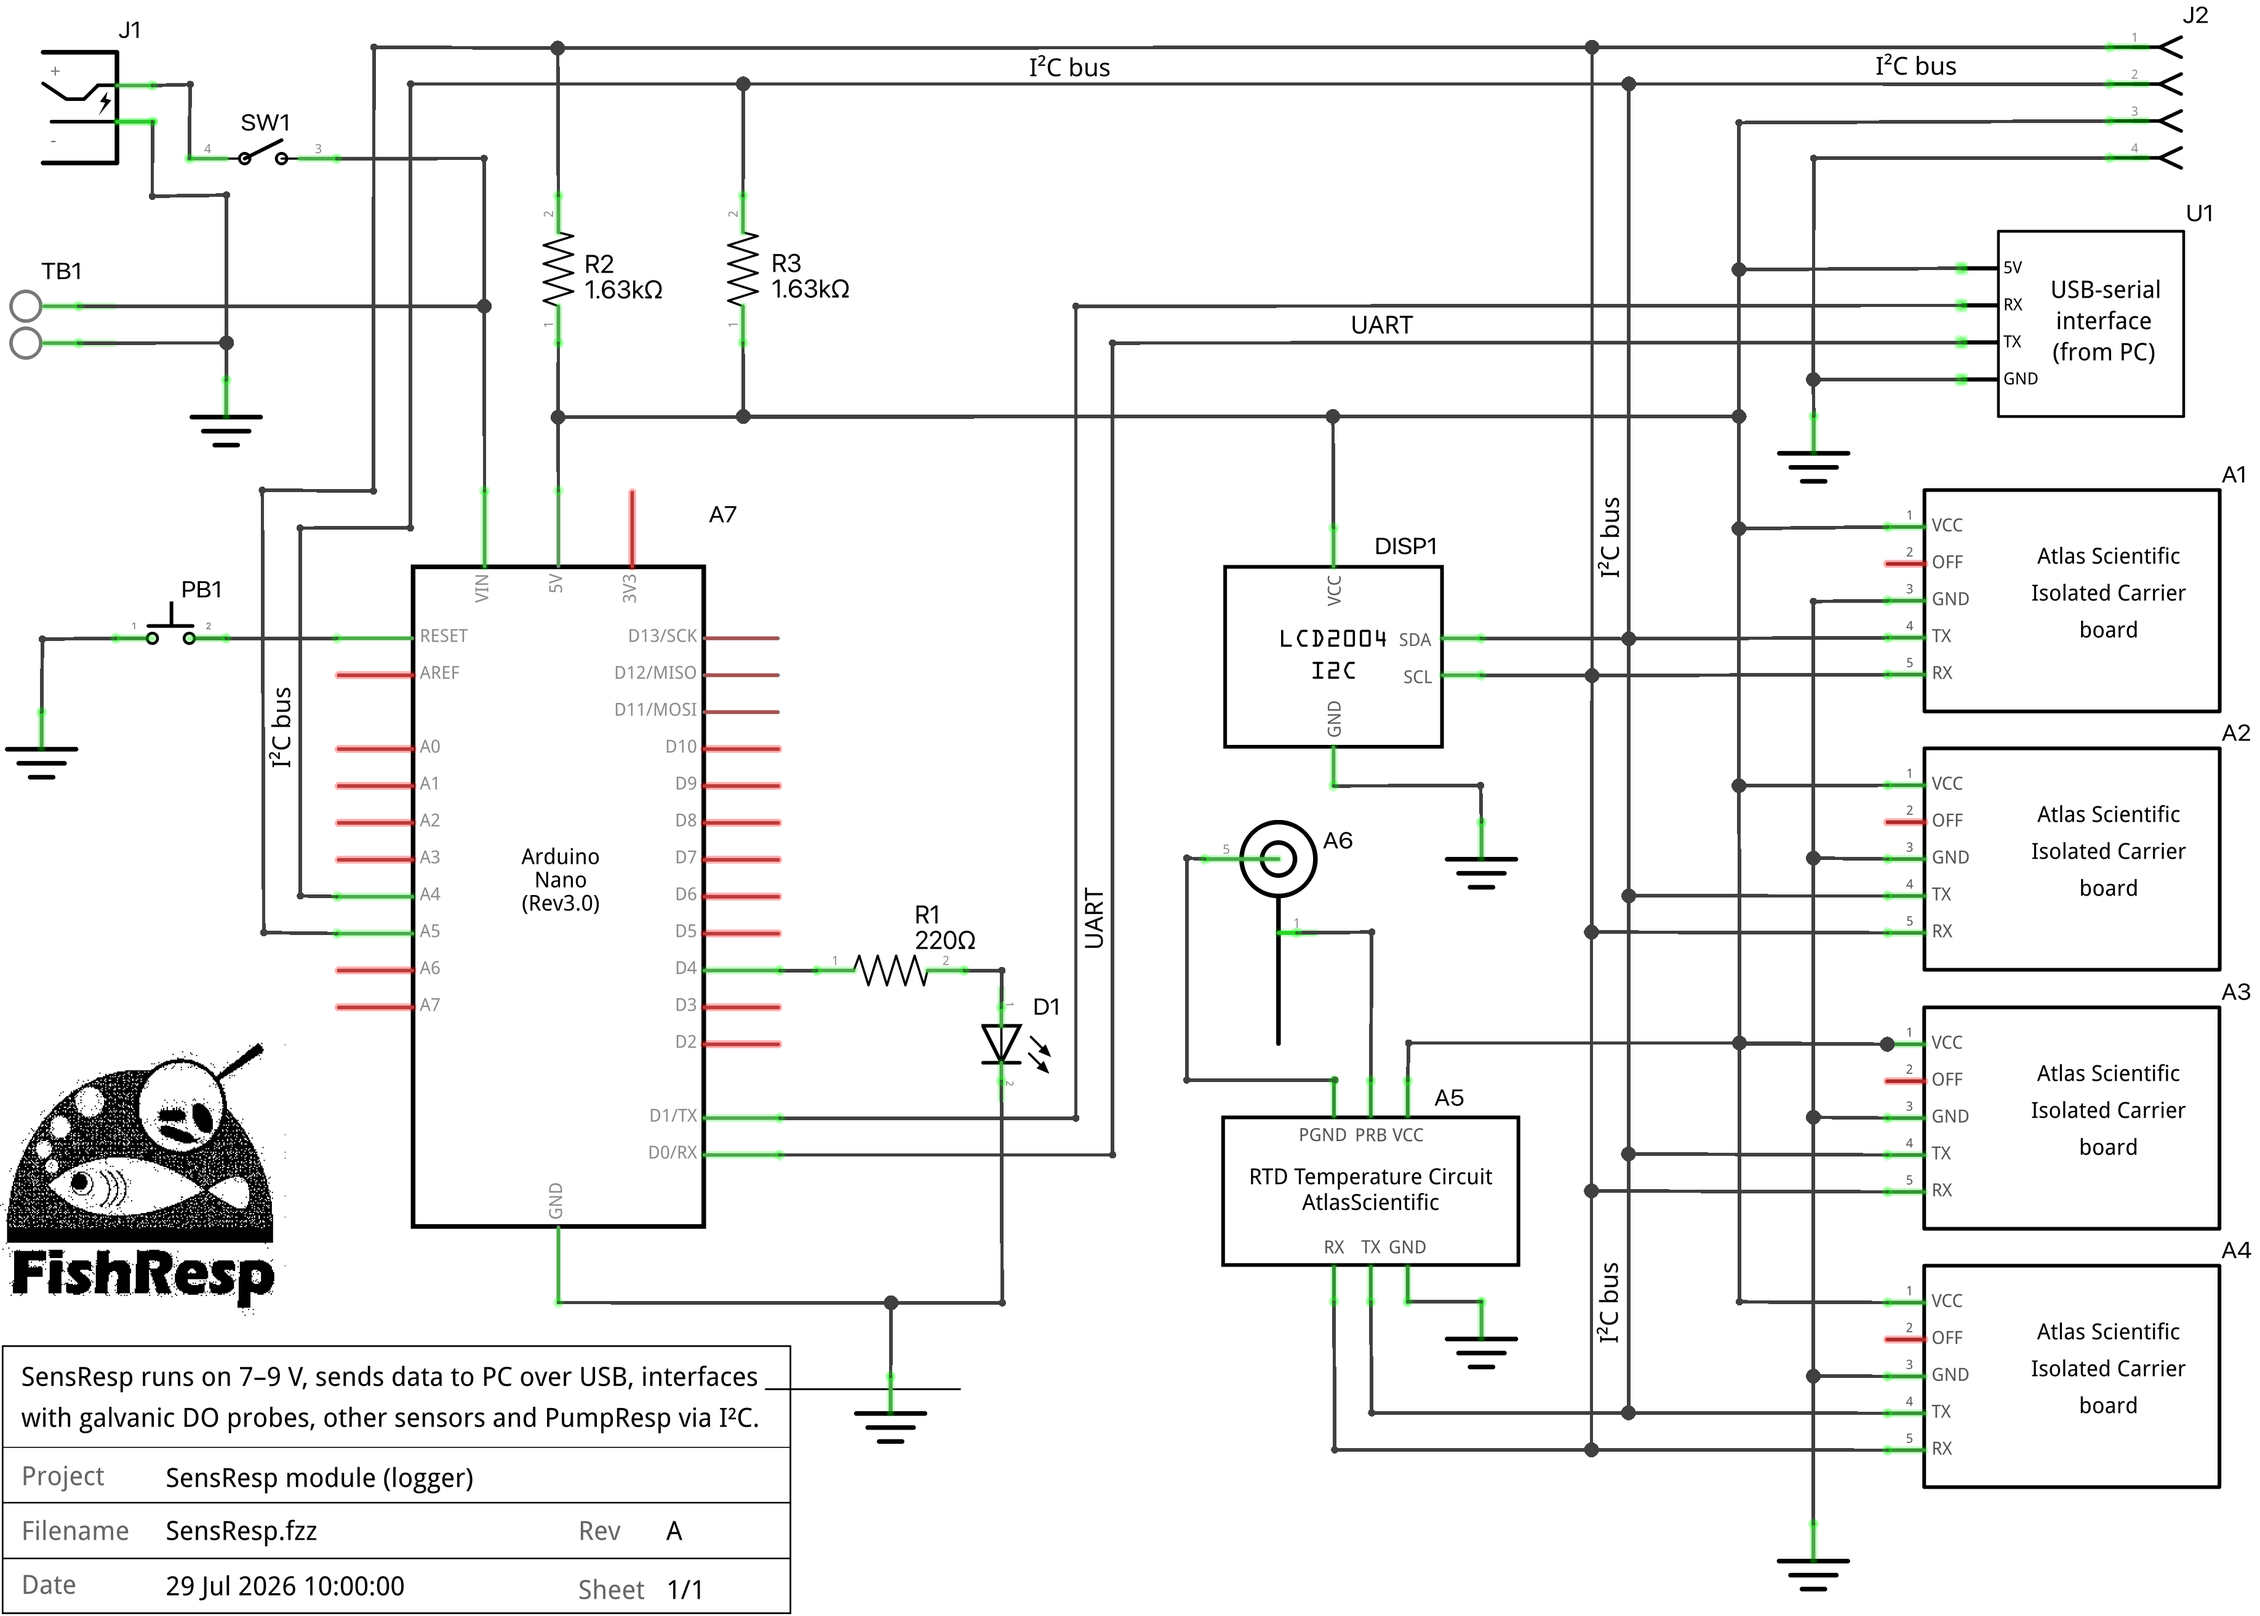
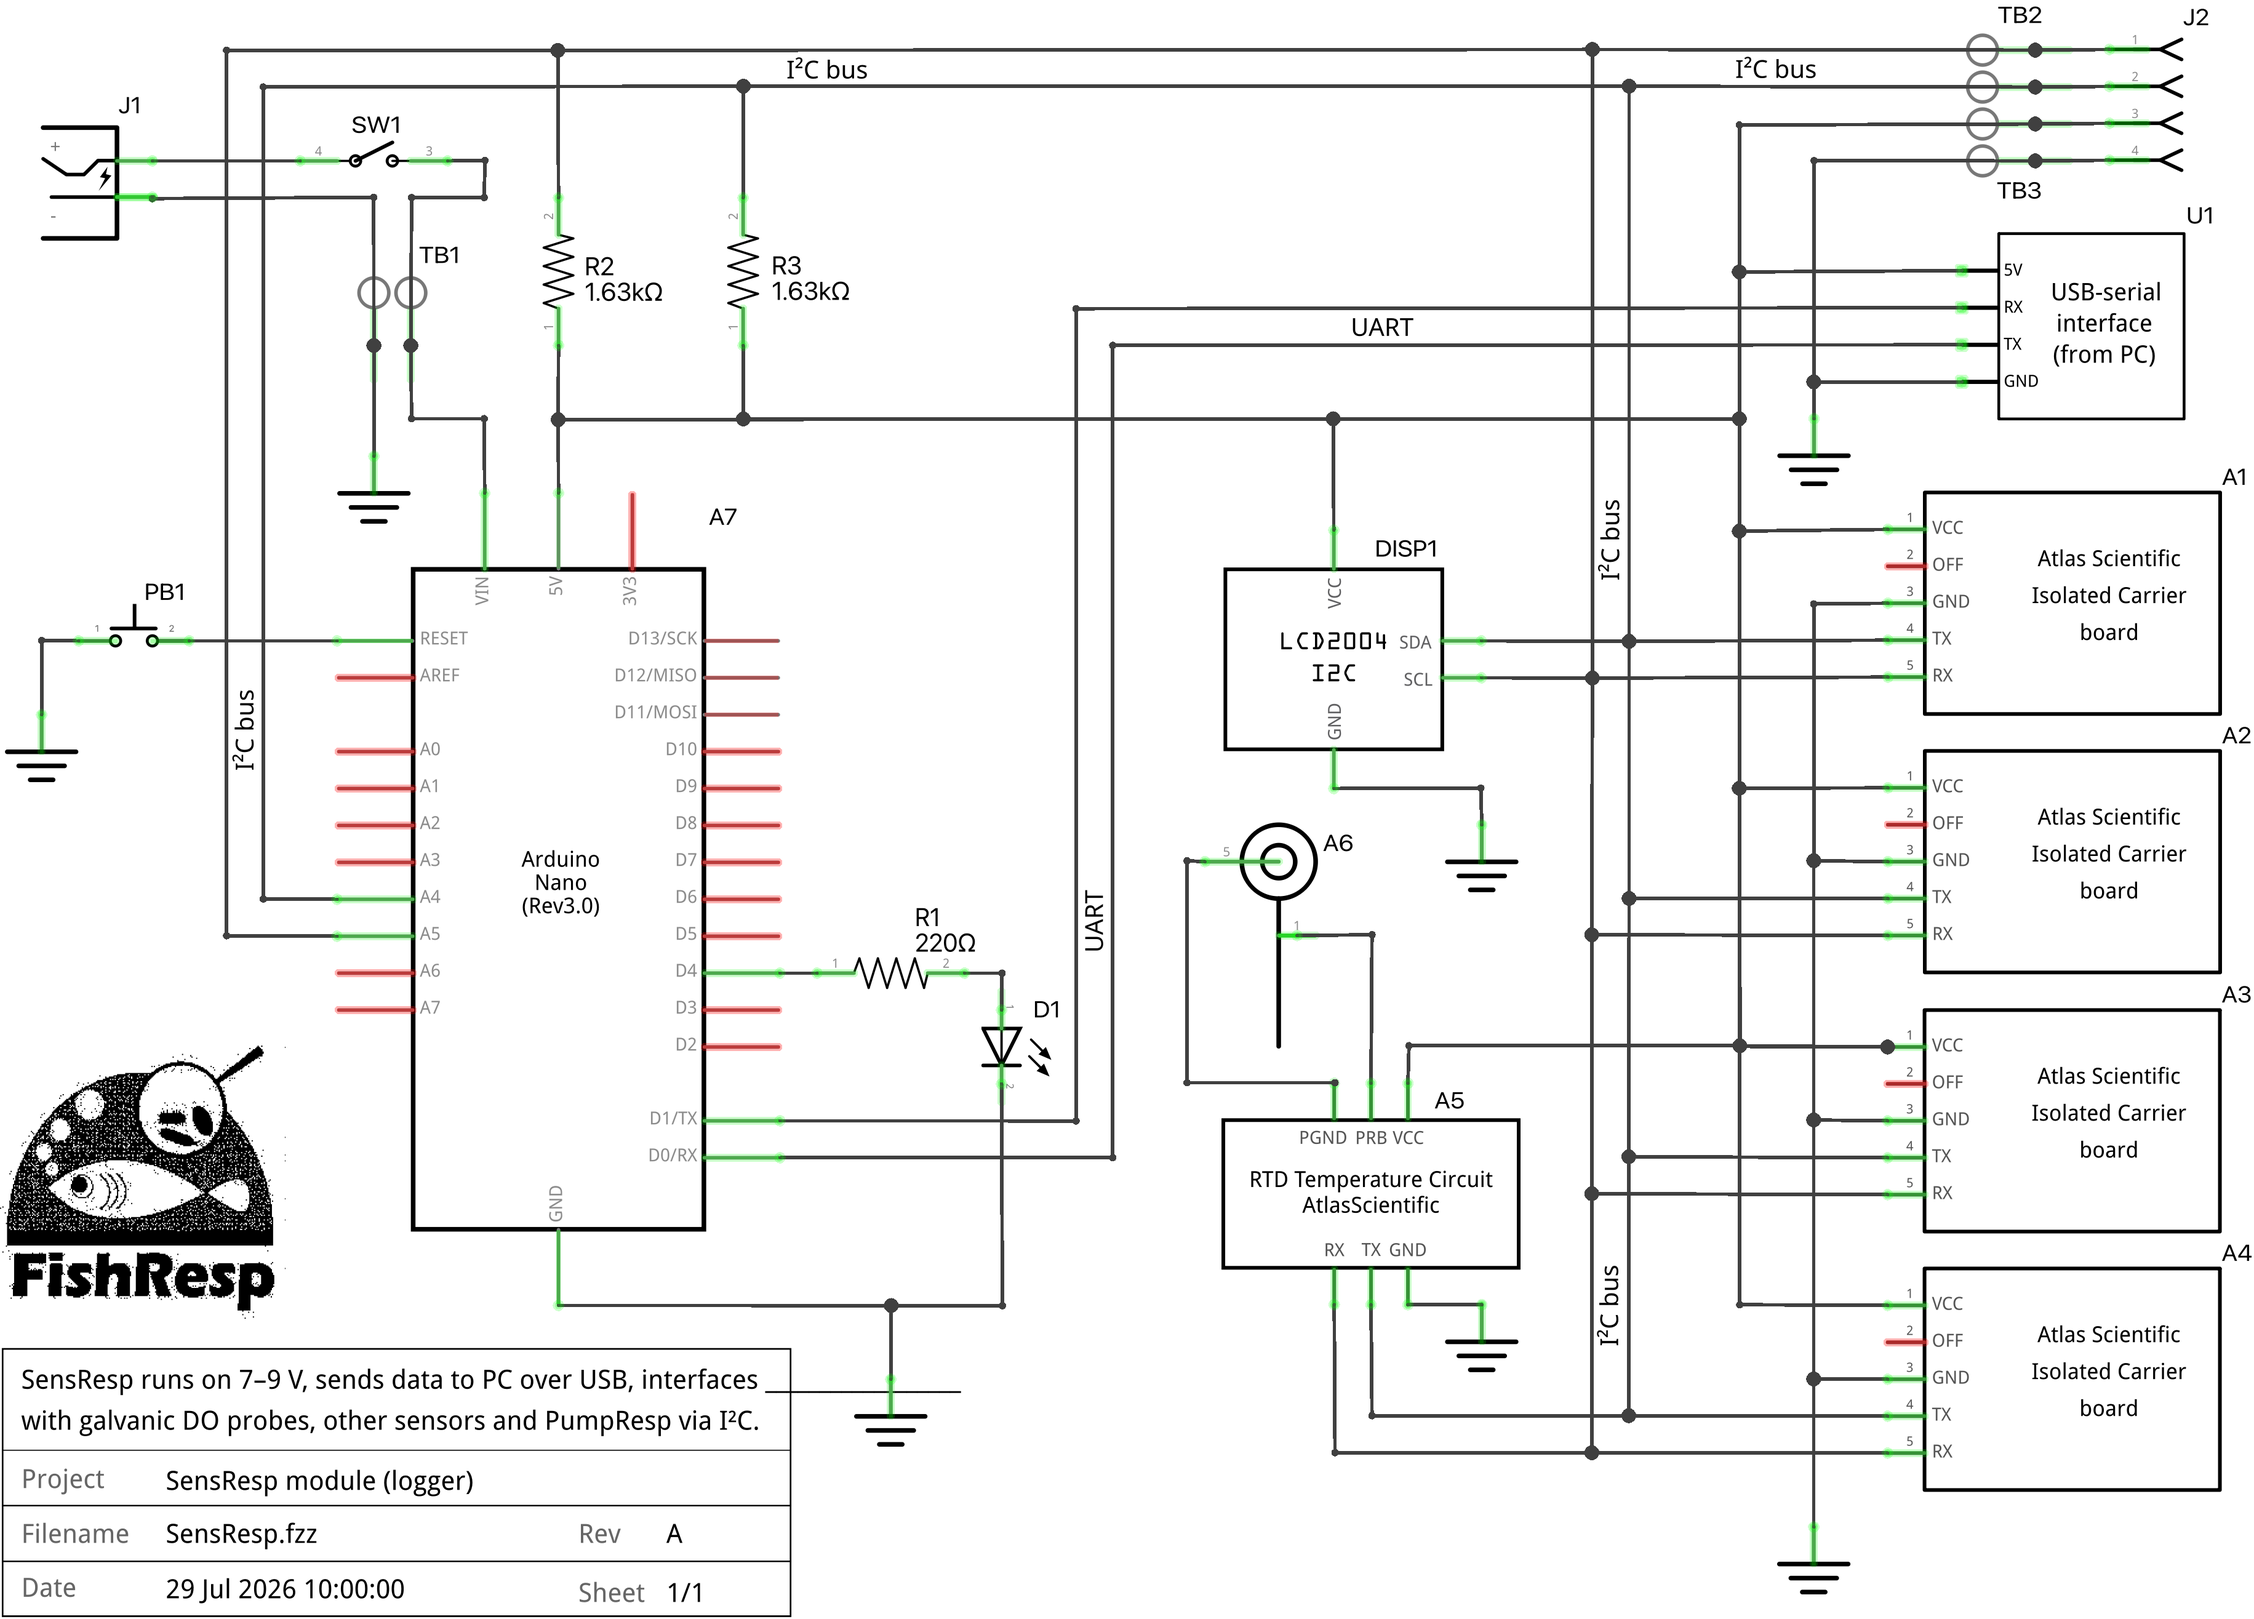
Add screw terminal blocks to schematics and wiring diagram

diff --git a/docs/SensResp_Build_Guide.md b/docs/SensResp_Build_Guide.md
@@ -89,7 +89,7 @@ Prices listed in this BOM exclude VAT, customs duties, and delivery costs.
 | LED, 5 mm | Generic | 1 pc | 6 | 6 | Bulk pack (50–200 pcs) |
 | Resistor, 220 Ω, ¼ W | Generic | 1 pc | 6 | 6 | Bulk pack (20–200 pcs) |
 | Resistor, 1.6 kΩ, ¼ W | Generic | 2 pcs | 6 | 6 | Bulk pack (20–200 pcs) |
-| Screw terminal block connector, 2-pin | Generic | 1 pc | 4 | 4 | Bulk pack (20–50 pcs) |
+| Screw terminal block connector, 2-pin | Generic | 3 pcs | 4 | 4 | Bulk pack (20–50 pcs) |
 | 20x4 LCD with I²C interface, HD44780 driver, 5V | Generic | 1 pc | 10 | 10 | - |
 | Female to male jumper wires, square jumpers, 10 cm | Generic | 1 kit | 5 | 5 | – |
 | Solderless breadboard BB830, 165.1 x 54.6 x 8.5 mm | Generic | 1 pc | 10 | 10 | Check reviews because cheap clones often have loose contacts, bad rails, and high resistance that disrupts I²C |
